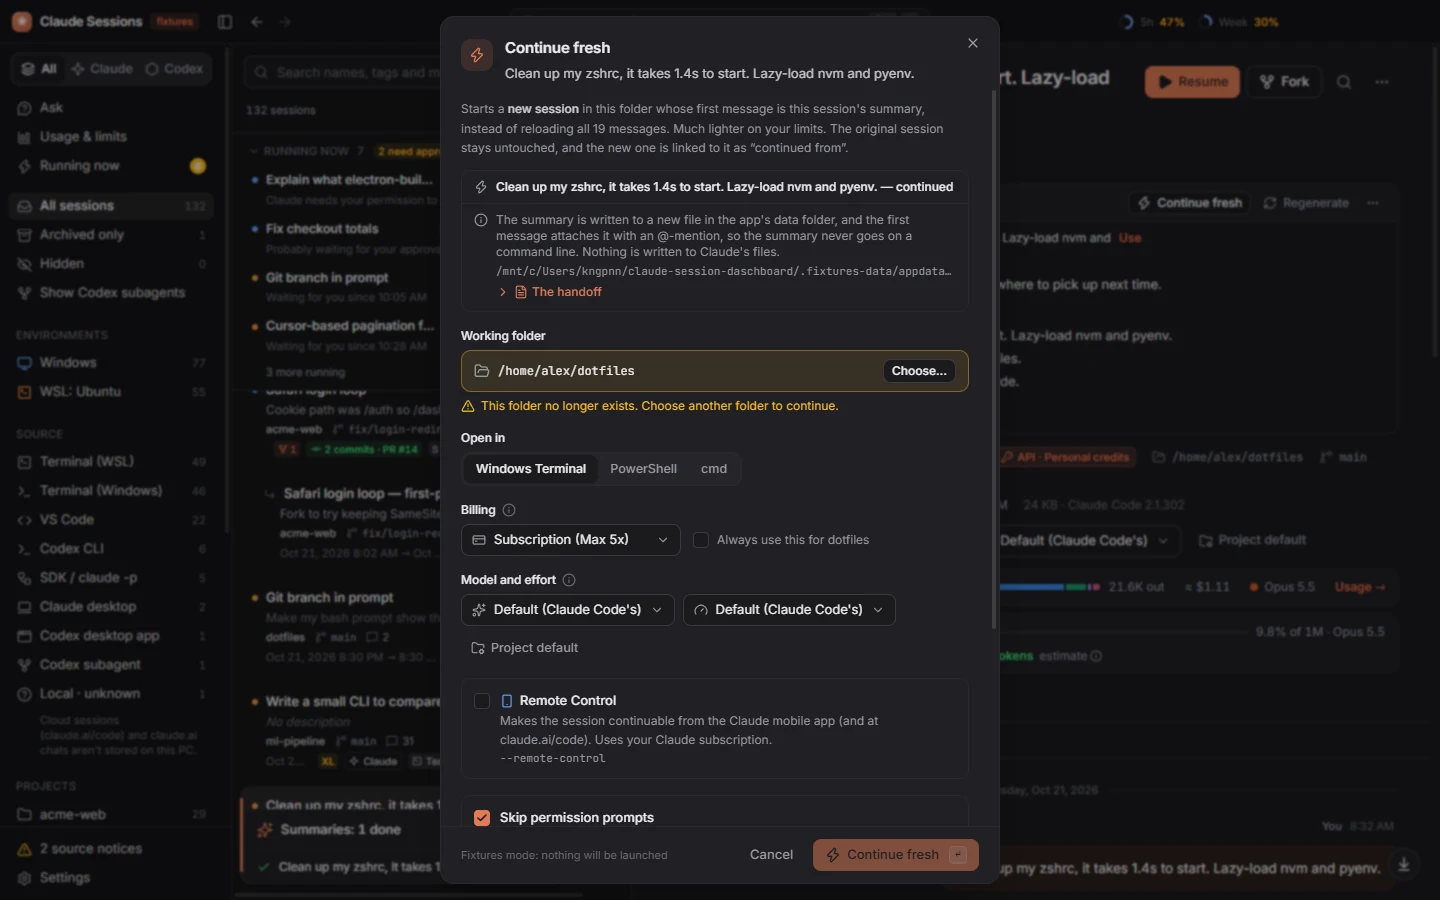
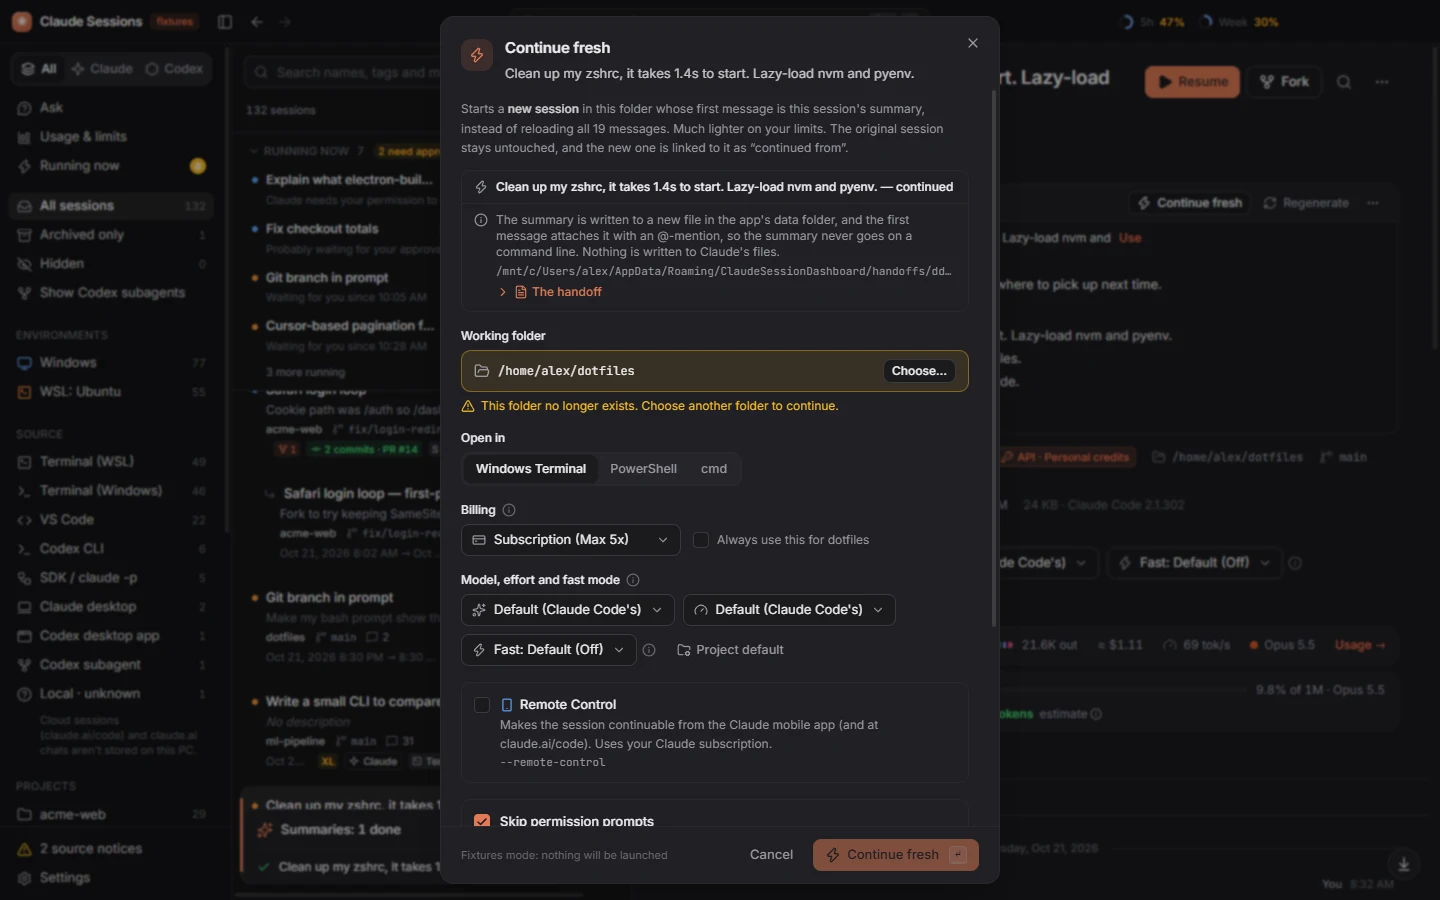
Docs: retake screenshots without real paths, drop unused ones
- continue-fresh.webp and settings-backup.webp showed the real checkout
  path (user name included); retaken with fixtures mode now showing the
  sample PC's paths. phone-sessions-light.webp showed the Ask screen,
  limit-compare.webp was cut off, and phone-wizard.webp showed the
  pairing code: retaken (Claude view, pairing code blurred like the QR).
- DETAILS: the "Older screenshots" section is gone, and with it 81
  images no doc links to any more (docs/*.png except branch-dialog and
  ask-claude, docs/mobile/, docs/terminal/, images/settings-dark.webp).
- DETAILS: both providers exist; nothing from node_modules ships; the
  data folder table lists hooks/codex-hooks, launch/fast-mode.json and
  chromium/; the usage parser thread and Fast mode are described; how
  the screenshots are made.

diff --git a/docs/DETAILS.md b/docs/DETAILS.md
@@ -1172,27 +1172,30 @@ records of sessions whose files are gone are kept as they were.
 
 ### Where the data lives
 
-| File (in `%APPDATA%\ClaudeSessionDashboard\`)           | What's in it                                                                                                     |
-| ------------------------------------------------------- | ---------------------------------------------------------------------------------------------------------------- |
-| `usage\records-YYYY-MM.ndjson`                          | One line per API response: time, session, project, environment, model, version, stop reason, every token count   |
-| `usage\turns-YYYY-MM.ndjson`, `usage\limit-hits.ndjson` | Per-request metrics for Trends, and every "usage limit reached" message                                          |
-| `limits-history.ndjson`                                 | Every status line reading                                                                                        |
-| `usage\usage-readings.ndjson`                           | Limit readings found in `/usage` output in transcripts (backfill)                                                |
-| `mobile.json`                                           | Paired phones (token hashes only), the activity log, the app's own serve / firewall rule, home Wi-Fi certificate |
-| `metadata.json`, `settings.json`                        | Your names, descriptions, tags, pins, summaries, launch choices, git unlinks and archive records; the settings   |
-| `archive\<source>\`                                     | The archived copy of every session file                                                                          |
-| `ask-history.json`                                      | Ask Claude questions and answers                                                                                 |
-| `ask-sessions-history.json`                             | Ask across sessions: questions, answers and their cited snippets                                                 |
-| `cache\ask\`, `cache\git-links-v1.json`, `cache\codex\` | The Ask index, git links and big Codex rollouts' compact text (rebuildable, never backed up)                     |
-| `usage\dashboard-runs.ndjson`                           | Token usage of the app's own `claude -p` runs ("Summaries (dashboard)", "Ask (dashboard)")                       |
-| `usage\codex-records-YYYY-MM.ndjson` and friends        | Codex usage, limit readings (`codex-limits-…`) and fork links (`codex-index.json`), apart from Claude Code's     |
-| `handoffs\<id>.md`, `handoffs\codex\<id>.md`            | Continue fresh: the summary each new session started from                                                        |
-| `backup.json`, `restore-backups\`                       | Backup settings (and a remembered, DPAPI-protected key); copies of files a restore replaced                      |
-| `terminal.json`, `terminal-backups\`                    | What the terminal access wizard changed, and the `sshd_config` backup                                            |
-| `archive\claude-ai\`                                    | Conversations imported from a claude.ai data export                                                              |
-| `accounts.json`                                         | API keys (encrypted), credit grants, cached Admin reports                                                        |
-| `bridge.json`, `backups\settings\`                      | What the installer changed, and the `settings.json` backups                                                      |
-| `logs\notifications.jsonl`                              | Each desktop notification: when it was sent and what Windows did (shown, failed and why, clicked). No text       |
+| File (in `%APPDATA%\ClaudeSessionDashboard\`)            | What's in it                                                                                                     |
+| -------------------------------------------------------- | ---------------------------------------------------------------------------------------------------------------- |
+| `usage\records-YYYY-MM.ndjson`                           | One line per API response: time, session, project, environment, model, version, stop reason, every token count   |
+| `usage\turns-YYYY-MM.ndjson`, `usage\limit-hits.ndjson`  | Per-request metrics for Trends, and every "usage limit reached" message                                          |
+| `limits-history.ndjson`                                  | Every status line reading                                                                                        |
+| `usage\usage-readings.ndjson`                            | Limit readings found in `/usage` output in transcripts (backfill)                                                |
+| `mobile.json`                                            | Paired phones (token hashes only), the activity log, the app's own serve / firewall rule, home Wi-Fi certificate |
+| `metadata.json`, `settings.json`                         | Your names, descriptions, tags, pins, summaries, launch choices, git unlinks and archive records; the settings   |
+| `archive\<source>\`                                      | The archived copy of every session file                                                                          |
+| `ask-history.json`                                       | Ask Claude questions and answers                                                                                 |
+| `ask-sessions-history.json`                              | Ask across sessions: questions, answers and their cited snippets                                                 |
+| `cache\ask\`, `cache\git-links-v1.json`, `cache\codex\`  | The Ask index, git links and big Codex rollouts' compact text (rebuildable, never backed up)                     |
+| `usage\dashboard-runs.ndjson`                            | Token usage of the app's own `claude -p` runs ("Summaries (dashboard)", "Ask (dashboard)")                       |
+| `usage\codex-records-YYYY-MM.ndjson` and friends         | Codex usage, limit readings (`codex-limits-…`) and fork links (`codex-index.json`), apart from Claude Code's     |
+| `handoffs\<id>.md`, `handoffs\codex\<id>.md`             | Continue fresh: the summary each new session started from                                                        |
+| `backup.json`, `restore-backups\`                        | Backup settings (and a remembered, DPAPI-protected key); copies of files a restore replaced                      |
+| `terminal.json`, `terminal-backups\`                     | What the terminal access wizard changed, and the `sshd_config` backup                                            |
+| `archive\claude-ai\`                                     | Conversations imported from a claude.ai data export                                                              |
+| `accounts.json`                                          | API keys (encrypted), credit grants, cached Admin reports                                                        |
+| `bridge.json`, `backups\settings\`                       | What the installer changed, and the `settings.json` backups                                                      |
+| `logs\notifications.jsonl`                               | Each desktop notification: when it was sent and what Windows did (shown, failed and why, clicked). No text       |
+| `hooks.json`, `codex-hooks.json`, `backups\codex-hooks\` | What Enable session alerts / approval alerts changed, and the backups of Codex's `hooks.json`                    |
+| `launch\fast-mode.json`                                  | Holds only `{"fastMode": true}`, passed to Claude Code with `--settings` when Fast is on                         |
+| `chromium\`                                              | Electron's own browser data (caches); rebuildable                                                                |
 
 **Recalculate usage** (Usage view or Settings → Usage) re-reads every session from scratch.
 
@@ -1318,19 +1321,19 @@ follows tabs and sessions the same way.
 
 ## Scripts
 
-| Command                                | What it does                                                                                                   |
-| -------------------------------------- | -------------------------------------------------------------------------------------------------------------- |
-| `npm run dev`                          | Run with hot reload. Add `-- --fixtures` for sample data.                                                      |
-| `npm start`                            | Run the last production build (`npm run build` first).                                                         |
-| `npm test`                             | Unit and integration tests (Vitest).                                                                           |
-| `npm run typecheck`                    | TypeScript checks for the main process and the renderer.                                                       |
-| `npm run lint`                         | ESLint.                                                                                                        |
-| `npm run check`                        | Typecheck, lint, test and build in one go.                                                                     |
-| `npm run dist`                         | Build the Windows NSIS installer and the portable exe.                                                         |
-| `npm run dist:dir`                     | Build an unpacked app folder (quick packaging check).                                                          |
-| `npm run screenshots`                  | Run the app in fixtures mode and save screenshots to `docs/` (delete `.fixtures-data/` first for a clean run). |
-| `node scripts/make-fixtures.mjs`       | Regenerate the sample sessions in `fixtures/`.                                                                 |
-| `node scripts/make-usage-fixtures.mjs` | Regenerate the 13 weeks of sample usage in `fixtures/usage/`.                                                  |
+| Command                                | What it does                                                                                              |
+| -------------------------------------- | --------------------------------------------------------------------------------------------------------- |
+| `npm run dev`                          | Run with hot reload. Add `-- --fixtures` for sample data.                                                 |
+| `npm start`                            | Run the last production build (`npm run build` first).                                                    |
+| `npm test`                             | Unit and integration tests (Vitest).                                                                      |
+| `npm run typecheck`                    | TypeScript checks for the main process and the renderer.                                                  |
+| `npm run lint`                         | ESLint.                                                                                                   |
+| `npm run check`                        | Typecheck, lint, test and build in one go.                                                                |
+| `npm run dist`                         | Build the Windows NSIS installer and the portable exe.                                                    |
+| `npm run dist:dir`                     | Build an unpacked app folder (quick packaging check).                                                     |
+| `npm run screenshots`                  | Run the app in fixtures mode and save PNG screenshots to `docs/` (not the README's WebP ones; see below). |
+| `node scripts/make-fixtures.mjs`       | Regenerate the sample sessions in `fixtures/`.                                                            |
+| `node scripts/make-usage-fixtures.mjs` | Regenerate the 13 weeks of sample usage in `fixtures/usage/`.                                             |
 
 ## How it works
 
@@ -1342,7 +1345,7 @@ src/
     core/      Small, tested building blocks: WSL decoding, launch commands, finding programs by
                full path (which.ts), archive, restore, atomic JSON store, write guards
     services/  Source detection, the session catalogue, search index, watcher, launcher
-    providers/ One provider per coding agent (claude/ so far): see "Providers" below
+    providers/ One provider per coding agent (claude/ and codex/): see "Providers" below
     git/       Git links: the only place git and gh start (runner.ts, behind shared/git/guard.ts),
                the read-only commands (backend.ts) and the matching service (service.ts)
     platform.ts  Everything that touches the OS (wsl.exe, wt.exe, spawn), with a fixtures version
@@ -1370,6 +1373,13 @@ tests/         Vitest unit and integration tests
   A failed write (a locked file, a full disk) is retried and never blocks later saves, and a junction
   or link can't send a write outside the app's data folder. Search uses MiniSearch (pure JS). A startup cache of
   summaries and the search index means only changed files are re-parsed at launch.
+- **Usage parsing** runs in a worker thread (heap capped at 1,024 MB), started when there is a file
+  to parse and let go soon after a scan (or after 20 s with nothing to do), so its memory goes too; if
+  the thread can't start, parsing falls back to the main process.
+  The session catalogue and search are still parsed in the main process.
+- **Fast mode** at launch is passed only as launch flags (Claude Code: `--settings` with the app's
+  `launch\fast-mode.json`; Codex: `-c service_tier=fast`). See [Fast mode](../README.md#fast-mode)
+  in the README.
 
 ### Providers
 
@@ -1668,8 +1678,9 @@ These are choices I made where the spec left room, or had to deviate:
   arguments and the folder appear only inside single-quoted PowerShell strings, so a folder name
   from a session file can't run anything when pasted. "Copy claude command only" copies just
   `claude --resume …` for pasting into a terminal that's already in the right folder.
-- **Renderer libraries are dev dependencies.** Vite bundles them, so only `chokidar` and
-  `minisearch` (used by the main process) ship in the installer.
+- **Every library is a dev dependency.** electron-vite bundles them into `out/` (the main
+  process's too), and the installer ships only `out/`, `resources/` and `package.json` (checked by
+  `scripts/check-asar.cjs`): no `node_modules`.
 - **Fixtures mode** copies `fixtures/` into `.fixtures-data/` (git-ignored) and runs against that copy.
   Launching only shows the command. To reset the sample data, delete `.fixtures-data/` yourself; the
   app never deletes anything. When the sample files in `fixtures/` move or are renamed,
@@ -1843,7 +1854,12 @@ These are choices I made where the spec left room, or had to deviate:
 
 The README's screenshots are in [`images/`](images/): WebP files taken in fixtures mode
 (`npm run dev -- --fixtures`, the sample sessions in `fixtures/`), never from real data. The sample
-user name is shown as "alex", and QR codes are blurred.
+user name is shown as "alex", and QR codes and pairing codes are blurred. Fixtures mode shows the
+sample PC's paths (`C:\Users\alex\…`, `%APPDATA%` as `C:\Users\alex\AppData\Roaming\…`) instead of
+the checkout's, so no screenshot shows where the repo really is (`src/main/fixtures-display.ts`).
+They were taken with a Playwright script that isn't in the repo; `npm run screenshots`,
+`scripts/mobile-screenshots.mjs` and `scripts/terminal-screenshots.mjs` make PNG screenshots in
+`docs/` for checking the UI, which aren't committed unless a doc uses them.
 
 |                                                           |                                                       |
 | --------------------------------------------------------- | ----------------------------------------------------- |
@@ -1861,53 +1877,3 @@ user name is shown as "alex", and QR codes are blurred.
 |                                           |                                                      |                                                            |                                      |
 | ----------------------------------------- | ---------------------------------------------------- | ---------------------------------------------------------- | ------------------------------------ |
 | ![Phone: pairing](images/phone-pair.webp) | ![Phone: sessions](images/phone-sessions-light.webp) | ![Phone: Running (light)](images/phone-running-light.webp) | ![Phone: Ask](images/phone-ask.webp) |
-
-### Older screenshots
-
-Made by the scripts in `scripts/` (PNG, in `docs/`, `docs/mobile/` and `docs/terminal/`): desktop
-ones with `npm run screenshots`, phone ones with `node scripts/mobile-screenshots.mjs` after
-`npm run build`.
-
-Desktop:
-
-|                                               |                                                 |
-| --------------------------------------------- | ----------------------------------------------- |
-| ![Tool calls](tools.png)                      | ![Resume dialog](resume-dialog.png)             |
-| ![Find in session](find.png)                  | ![Command palette](command-palette.png)         |
-| ![Settings](settings.png)                     | ![Light theme](main-light.png)                  |
-| ![Enable live limits](enable-live-limits.png) | ![Disable live limits](disable-live-limits.png) |
-| ![Branch from a message](branch-intro.png)    | ![Branches](branches.png)                       |
-
-Phone companion:
-
-|                                  |                                |                                                  |                                           |
-| -------------------------------- | ------------------------------ | ------------------------------------------------ | ----------------------------------------- |
-| ![Sessions](mobile/sessions.png) | ![Session](mobile/session.png) | ![Resume with Remote Control](mobile/resume.png) | ![Started on your PC](mobile/resumed.png) |
-| ![Usage](mobile/usage-light.png) | ![Filters](mobile/filters.png) | ![Settings](mobile/settings.png)                 | ![Pairing](mobile/pair.png)               |
-
-![Connect your phone](mobile/desktop-wizard-pair.png)
-
-Terminal access (`node scripts/terminal-screenshots.mjs` after `npm run build`; fixtures mode uses
-a stand-in PC, so nothing is installed or changed):
-
-|                                                         |                                                           |
-| ------------------------------------------------------- | --------------------------------------------------------- |
-| ![Exactly what will run](terminal/confirm-firewall.png) | ![Key from the phone](terminal/wizard-key-from-phone.png) |
-| ![Phone app step](terminal/wizard-phone-app.png)        | ![Turn off](terminal/confirm-turn-off.png)                |
-
-|                                                          |                                                       |                                              |
-| -------------------------------------------------------- | ----------------------------------------------------- | -------------------------------------------- |
-| ![Open terminal here](terminal/phone-terminal-sheet.png) | ![A WSL project](terminal/phone-terminal-project.png) | ![Send SSH key](terminal/phone-send-key.png) |
-
-Usage and limits:
-
-|                                               |                                                 |
-| --------------------------------------------- | ----------------------------------------------- |
-| ![Limit gauges (dark)](limits.png)            | ![Limit gauges (light)](limits-light.png)       |
-| ![Credits card (dark)](credits.png)           | ![Credits card (light)](credits-light.png)      |
-| ![Charts](usage-charts.png)                   | ![Trends](trends.png)                           |
-| ![Limit history](limit-history.png)           | ![Credits tab](credits-tab.png)                 |
-| ![Usage (light)](usage-light.png)             | ![Mini meter](mini-meter.png)                   |
-| ![Limit health](limit-health.png)             | ![Limit health (light)](limit-health-light.png) |
-| ![Compare two date ranges](limit-compare.png) | ![Ask Claude](ask-claude.png)                   |
-| ![What Ask Claude sends](ask-preview.png)     |                                                 |
